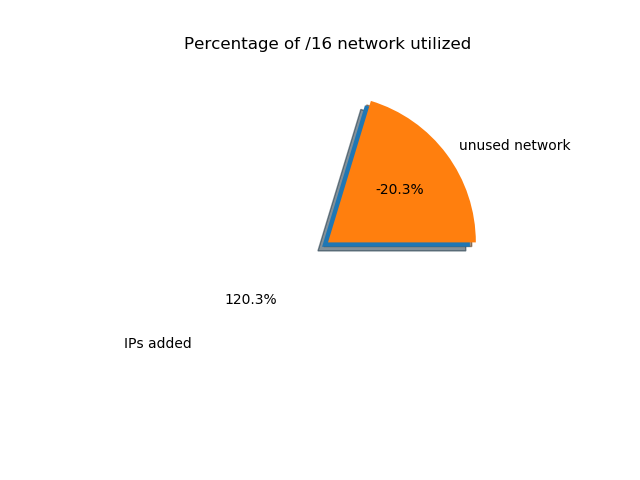
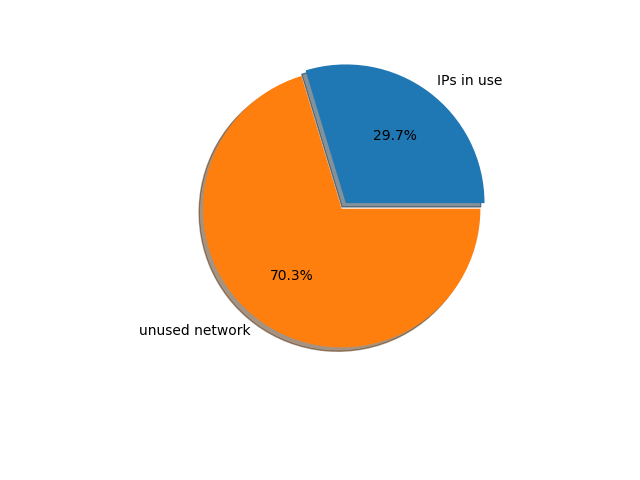
reworked render_graphs class to correctly plot ips over time

Changed region(s): [[0.1875, 0.0625, 0.9062, 0.75]]

diff --git a/release/render_charts.py b/release/render_charts.py
@@ -1,0 +1,74 @@
+#!/usr/bin/env python3
+
+
+# coding: utf-8
+# ### Import modules#
+
+#import csv
+#import datetime
+#import ipaddress
+import logging
+#import os
+import pandas as pd
+import matplotlib.pyplot as plt
+from matplotlib.gridspec import GridSpec
+
+
+class render_graphs():
+#    images_directory = "./startflask/static/images/"
+
+    logger = logging.getLogger(__name__)
+    logger.setLevel(logging.INFO)
+    # create a file handler
+    handler = logging.FileHandler('data_render.log')
+    handler.setLevel(logging.INFO)
+    # create a logging format
+    formatter = logging.Formatter('%(asctime)s - %(name)s - %(levelname)s - %(message)s')
+    handler.setFormatter(formatter)
+    # add the handlers to the logger
+    logger.addHandler(handler)
+    logger.info('Starting graph rendering.')
+
+    def read_data_format_df(self):
+        # ### Read in the csv and add headers to the columns
+        df = pd.read_csv('../data/new_data1.csv',
+                         names=['IP_Address', 'Subnet_mask',
+                                'In_use?', 'unix_timestamp'])
+        dic = {22: 4, 24: 1, 20: 16}
+        df['mask_conversion'] = df['Subnet_mask'].map(dic)
+        df['date'] = pd.to_datetime(df['unix_timestamp'], unit='s')
+        current_ips = df[['date', 'mask_conversion']]
+        current_ips = current_ips.set_index(['date'])
+        current_ips = current_ips.groupby(['date']).sum()
+        return current_ips
+
+    def plot_ips_over_time(self):
+        current_ips = self.read_data_format_df()
+        current_ips.plot(style='.-', rot=45, ax=None)
+        plt.ylabel("number of IP addresses")
+        plt.xlabel("time")
+        plt.title("IP addresses added to network over time")
+        plt.tight_layout()
+        plt.savefig("./startflask/static/images/Current_IPs", dpi=100)
+        self.logger.info("wrote file Current_IPs")
+
+    def plot_pct_pie(self):
+        current_ips = self.read_data_format_df()
+        total_24s_per_16 = 256
+        count_24s = current_ips['mask_conversion'][-1]
+        labels = 'IPs in use', 'unused network'
+        fracs = [count_24s, (total_24s_per_16 - count_24s)]
+        explode = (0.05, 0)
+        grid = GridSpec(1, 1)
+        plt.subplot(grid[0, 0], aspect=1)
+        plt.pie(fracs, explode=explode, labels=labels,
+                autopct='%1.1f%%', shadow=True)
+        plt.savefig("./startflask/static/images/IP_pct_pie", dpi=100)
+        self.logger.info("wrote file IP_pct_pie")
+
+
+if __name__ == '__main__':
+    render = render_graphs()
+#    render.read_data_format_df()
+    render.plot_ips_over_time()
+    render.plot_pct_pie()
